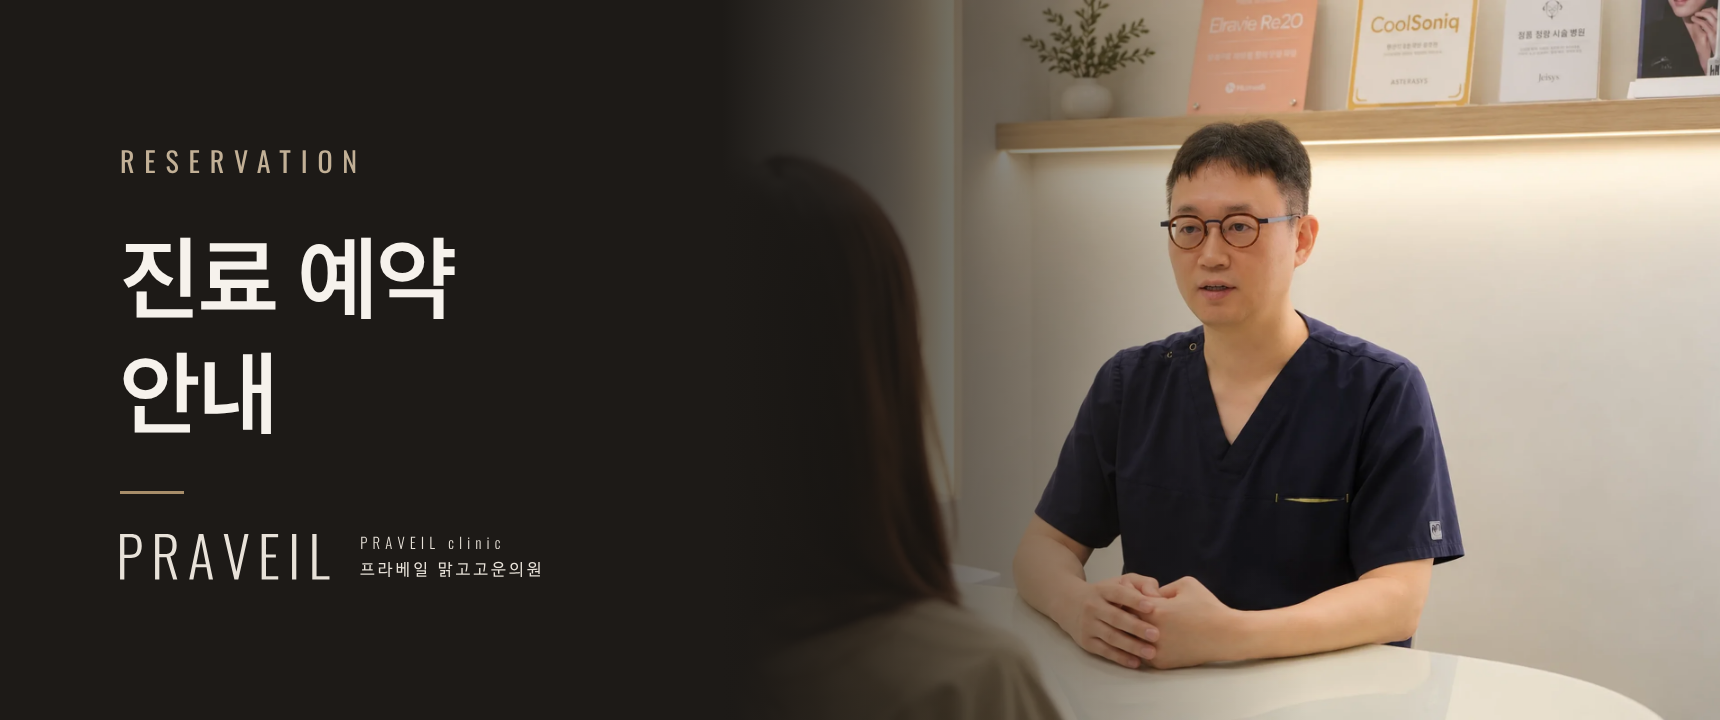
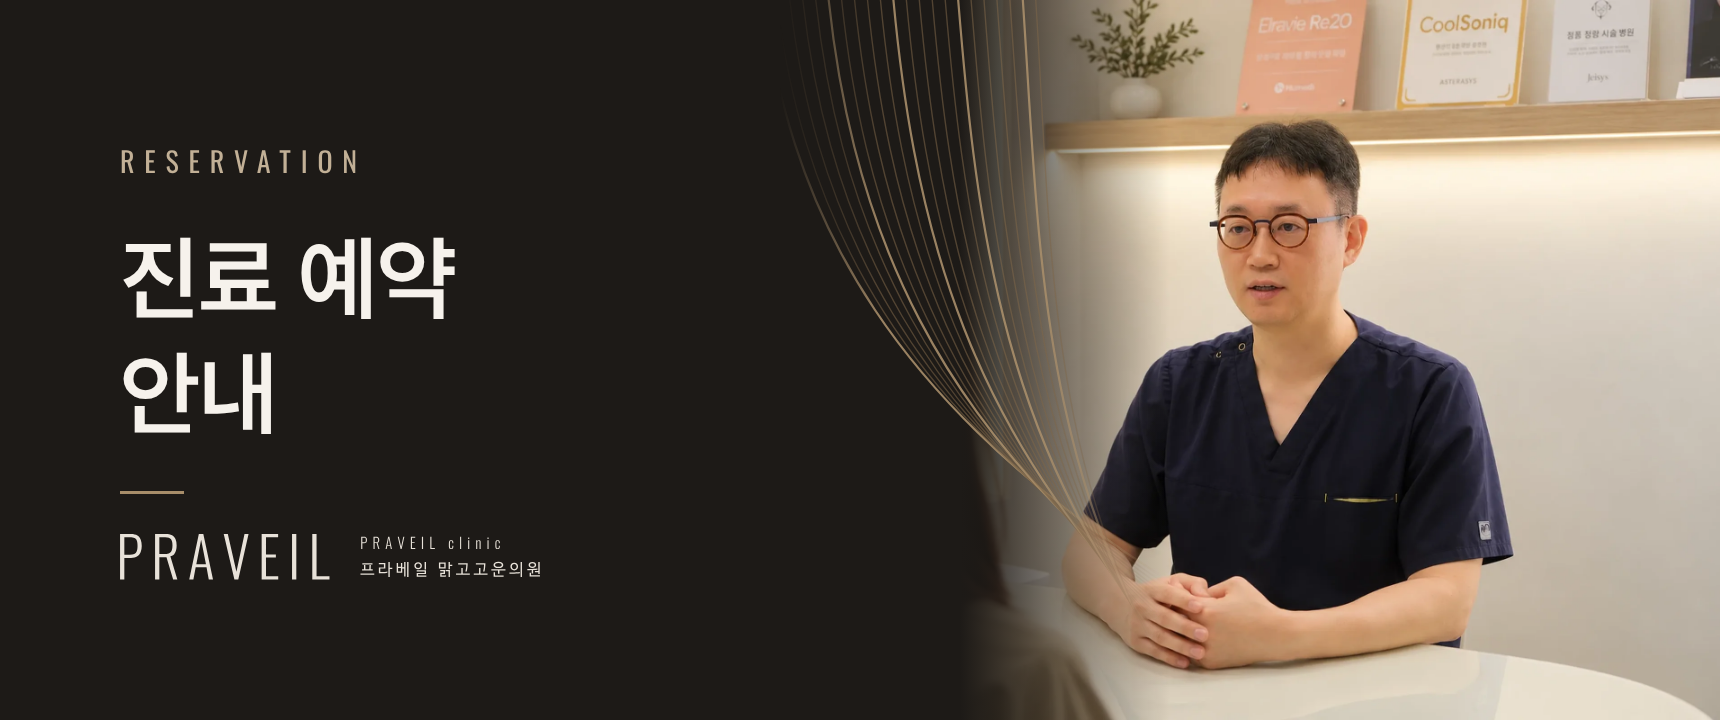
블로그 글 표지 3개를 글 머리와 같은 구성(오른쪽 사진 · 비단 곡선)으로
Claude-Session: https://claude.ai/code/session_01Ld2YJmc6iArSkVBjrjkKUN

Changed region(s): [[0.4622, 0.0, 1.0, 1.0]]

diff --git a/docs/naver-blog-skin/posts.html b/docs/naver-blog-skin/posts.html
@@ -96,19 +96,63 @@
         height: 720px;
         background: var(--espresso);
       }
-      .cover .photo {
-        left: auto;
-        width: 58%;
+      /* 글 머리와 같은 구성: 오른쪽 사진 · 짙은 바탕 · 글씨와 사진 사이에 비단 곡선 */
+      .cover .shot {
+        position: absolute;
+        left: 960px;
+        top: 0;
+        width: 760px;
+        height: 720px;
+        overflow: hidden;
       }
       .cover .fade {
         position: absolute;
         inset: 0;
         background: linear-gradient(
           90deg,
-          var(--espresso) 42%,
-          rgba(29, 26, 23, 0.6) 56%,
-          rgba(29, 26, 23, 0) 76%
+          var(--espresso) 55.8%,
+          rgba(29, 26, 23, 0.55) 61%,
+          rgba(29, 26, 23, 0) 68%
         );
+      }
+      #p1-cover .shot .photo {
+        object-position: 50% 50%;
+      }
+      #p2-cover .shot .photo {
+        object-position: 72% 50%;
+      }
+      #p3-cover .shot .photo {
+        object-position: 45% 50%;
+      }
+      /* 표지 비단 곡선: 글 머리와 같은 금색 선 다발이 글씨와 사진 사이로 흘러내림 */
+      .cover .pattern {
+        position: absolute;
+        left: 0;
+        top: 0;
+        -webkit-mask-image: linear-gradient(
+          90deg,
+          transparent 780px,
+          #000 880px,
+          #000 1040px,
+          transparent 1160px
+        );
+        mask-image: linear-gradient(
+          90deg,
+          transparent 780px,
+          #000 880px,
+          #000 1040px,
+          transparent 1160px
+        );
+      }
+      .cover .pattern .lo {
+        stroke: var(--mocha);
+        stroke-width: 1.4;
+        stroke-opacity: 0.55;
+      }
+      .cover .pattern .hi {
+        stroke: var(--gold);
+        stroke-width: 2.2;
+        stroke-opacity: 0.9;
       }
       .cover .copy {
         position: absolute;
@@ -309,8 +353,39 @@
   <body>
     <!-- 글 1. 오시는 길 · 주차 안내 -->
     <section class="asset cover" id="p1-cover">
-      <img class="photo" src="../../public/images/photos/hero-entrance.webp" />
+      <div class="shot">
+        <img
+          class="photo"
+          src="../../public/images/photos/hero-entrance.webp"
+        />
+      </div>
       <div class="fade"></div>
+      <svg class="pattern" width="1720" height="720" viewBox="0 0 1720 720">
+        <g fill="none">
+          <path class="hi" d="M760 -40 C 780 220, 900 420, 1200 600" />
+          <path class="lo" d="M773 -40 C 793 220, 906 423, 1200 606" />
+          <path class="lo" d="M786 -40 C 806 220, 913 426, 1200 612" />
+          <path class="lo" d="M799 -40 C 819 220, 920 430, 1200 618" />
+          <path class="lo" d="M812 -40 C 832 220, 926 433, 1200 623" />
+          <path class="hi" d="M825 -40 C 845 220, 932 436, 1200 629" />
+          <path class="lo" d="M838 -40 C 858 220, 939 440, 1200 635" />
+          <path class="lo" d="M851 -40 C 871 220, 946 443, 1200 641" />
+          <path class="lo" d="M864 -40 C 884 220, 952 446, 1200 647" />
+          <path class="lo" d="M877 -40 C 897 220, 958 449, 1200 653" />
+          <path class="hi" d="M890 -40 C 910 220, 965 452, 1200 658" />
+          <path class="lo" d="M903 -40 C 923 220, 972 456, 1200 664" />
+          <path class="lo" d="M916 -40 C 936 220, 978 459, 1200 670" />
+          <path class="lo" d="M929 -40 C 949 220, 984 462, 1200 676" />
+          <path class="lo" d="M942 -40 C 962 220, 991 466, 1200 682" />
+          <path class="hi" d="M955 -40 C 975 220, 998 469, 1200 688" />
+          <path class="lo" d="M968 -40 C 988 220, 1004 472, 1200 694" />
+          <path class="lo" d="M981 -40 C 1001 220, 1010 475, 1200 699" />
+          <path class="lo" d="M994 -40 C 1014 220, 1017 478, 1200 705" />
+          <path class="lo" d="M1007 -40 C 1027 220, 1024 482, 1200 711" />
+          <path class="hi" d="M1020 -40 C 1040 220, 1030 485, 1200 717" />
+          <path class="lo" d="M1033 -40 C 1053 220, 1036 488, 1200 723" />
+        </g>
+      </svg>
       <div class="copy">
         <p class="en">Location · Parking</p>
         <h1>오시는 길<br />주차 안내</h1>
@@ -380,8 +455,36 @@
 
     <!-- 글 2. 예약 안내 -->
     <section class="asset cover" id="p2-cover">
-      <img class="photo" src="../../public/images/photos/hero-consult.webp" />
+      <div class="shot">
+        <img class="photo" src="../../public/images/photos/hero-consult.webp" />
+      </div>
       <div class="fade"></div>
+      <svg class="pattern" width="1720" height="720" viewBox="0 0 1720 720">
+        <g fill="none">
+          <path class="hi" d="M760 -40 C 780 220, 900 420, 1200 600" />
+          <path class="lo" d="M773 -40 C 793 220, 906 423, 1200 606" />
+          <path class="lo" d="M786 -40 C 806 220, 913 426, 1200 612" />
+          <path class="lo" d="M799 -40 C 819 220, 920 430, 1200 618" />
+          <path class="lo" d="M812 -40 C 832 220, 926 433, 1200 623" />
+          <path class="hi" d="M825 -40 C 845 220, 932 436, 1200 629" />
+          <path class="lo" d="M838 -40 C 858 220, 939 440, 1200 635" />
+          <path class="lo" d="M851 -40 C 871 220, 946 443, 1200 641" />
+          <path class="lo" d="M864 -40 C 884 220, 952 446, 1200 647" />
+          <path class="lo" d="M877 -40 C 897 220, 958 449, 1200 653" />
+          <path class="hi" d="M890 -40 C 910 220, 965 452, 1200 658" />
+          <path class="lo" d="M903 -40 C 923 220, 972 456, 1200 664" />
+          <path class="lo" d="M916 -40 C 936 220, 978 459, 1200 670" />
+          <path class="lo" d="M929 -40 C 949 220, 984 462, 1200 676" />
+          <path class="lo" d="M942 -40 C 962 220, 991 466, 1200 682" />
+          <path class="hi" d="M955 -40 C 975 220, 998 469, 1200 688" />
+          <path class="lo" d="M968 -40 C 988 220, 1004 472, 1200 694" />
+          <path class="lo" d="M981 -40 C 1001 220, 1010 475, 1200 699" />
+          <path class="lo" d="M994 -40 C 1014 220, 1017 478, 1200 705" />
+          <path class="lo" d="M1007 -40 C 1027 220, 1024 482, 1200 711" />
+          <path class="hi" d="M1020 -40 C 1040 220, 1030 485, 1200 717" />
+          <path class="lo" d="M1033 -40 C 1053 220, 1036 488, 1200 723" />
+        </g>
+      </svg>
       <div class="copy">
         <p class="en">Reservation</p>
         <h1>진료 예약<br />안내</h1>
@@ -447,8 +550,36 @@
 
     <!-- 글 3. 병원명 변경 안내 -->
     <section class="asset cover" id="p3-cover">
-      <img class="photo" src="../../public/images/photos/hero-lobby.webp" />
+      <div class="shot">
+        <img class="photo" src="../../public/images/photos/hero-lobby.webp" />
+      </div>
       <div class="fade"></div>
+      <svg class="pattern" width="1720" height="720" viewBox="0 0 1720 720">
+        <g fill="none">
+          <path class="hi" d="M760 -40 C 780 220, 900 420, 1200 600" />
+          <path class="lo" d="M773 -40 C 793 220, 906 423, 1200 606" />
+          <path class="lo" d="M786 -40 C 806 220, 913 426, 1200 612" />
+          <path class="lo" d="M799 -40 C 819 220, 920 430, 1200 618" />
+          <path class="lo" d="M812 -40 C 832 220, 926 433, 1200 623" />
+          <path class="hi" d="M825 -40 C 845 220, 932 436, 1200 629" />
+          <path class="lo" d="M838 -40 C 858 220, 939 440, 1200 635" />
+          <path class="lo" d="M851 -40 C 871 220, 946 443, 1200 641" />
+          <path class="lo" d="M864 -40 C 884 220, 952 446, 1200 647" />
+          <path class="lo" d="M877 -40 C 897 220, 958 449, 1200 653" />
+          <path class="hi" d="M890 -40 C 910 220, 965 452, 1200 658" />
+          <path class="lo" d="M903 -40 C 923 220, 972 456, 1200 664" />
+          <path class="lo" d="M916 -40 C 936 220, 978 459, 1200 670" />
+          <path class="lo" d="M929 -40 C 949 220, 984 462, 1200 676" />
+          <path class="lo" d="M942 -40 C 962 220, 991 466, 1200 682" />
+          <path class="hi" d="M955 -40 C 975 220, 998 469, 1200 688" />
+          <path class="lo" d="M968 -40 C 988 220, 1004 472, 1200 694" />
+          <path class="lo" d="M981 -40 C 1001 220, 1010 475, 1200 699" />
+          <path class="lo" d="M994 -40 C 1014 220, 1017 478, 1200 705" />
+          <path class="lo" d="M1007 -40 C 1027 220, 1024 482, 1200 711" />
+          <path class="hi" d="M1020 -40 C 1040 220, 1030 485, 1200 717" />
+          <path class="lo" d="M1033 -40 C 1053 220, 1036 488, 1200 723" />
+        </g>
+      </svg>
       <div class="copy">
         <p class="en">Notice</p>
         <h1>뉴리즈의원 인천점<br />병원명 변경 안내</h1>
